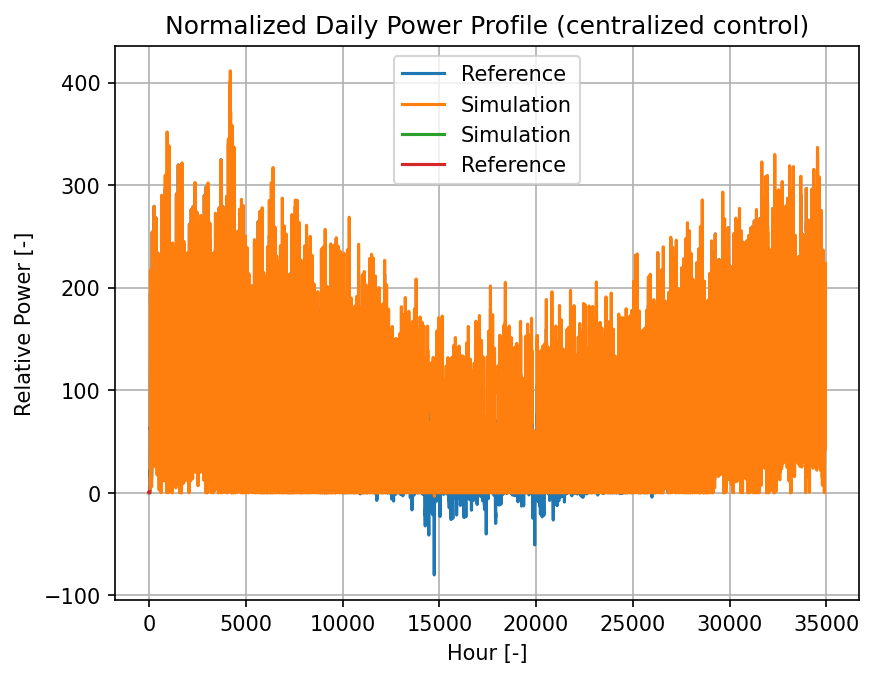
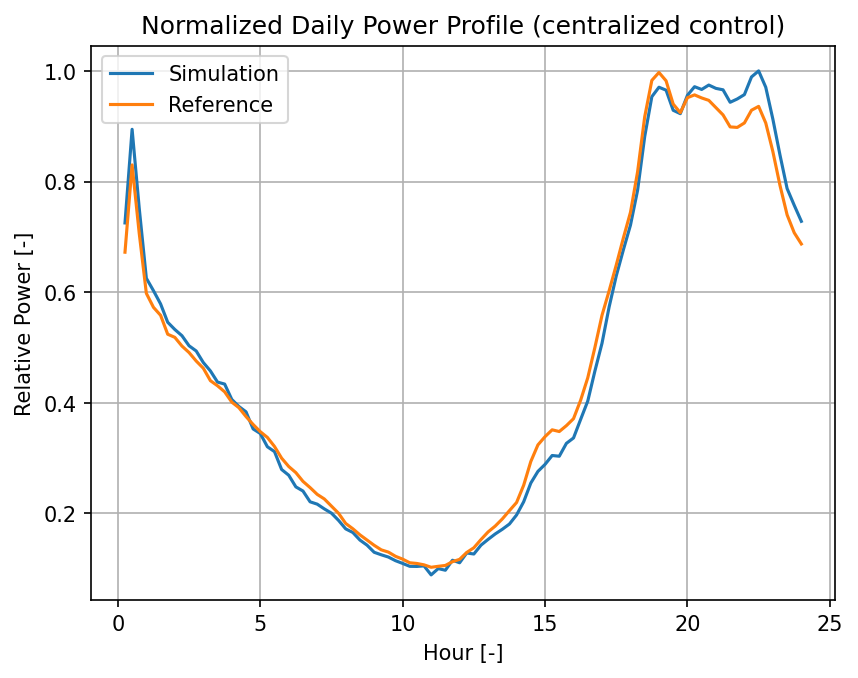
Run1. plus add pass in argument for centralized and decentralized

diff --git a/main.py b/main.py
@@ -1,4 +1,5 @@
 from typing import List
+import argparse
 import numpy as np
 import time
 
@@ -10,9 +11,7 @@ import constants
 
 TIME_STEP_SECONDS = constants.TIME_STEP_SECONDS
 
-# "decentralized" or "centralized"
-#CONTROL_MODE = "decentralized"  
-CONTROL_MODE = "centralized"  
+# Renewable share threshold set based on ____________
 HIGH_REN_THRESHOLD = 0.6
 LOW_REN_THRESHOLD = 0.4
 
@@ -97,10 +96,9 @@ def batt_strategy(time_step : int, temperature_data : np.ndarray, renewable_shar
     # Example: do nothing, determine the consumption of the battery in the house strategy
     # pass
 
-    # In centralized mode, default to 0; neighborhood_strategy will override.
-    # In decentralized mode, leave None so house_strategy sets it.
-    if CONTROL_MODE == "centralized":
-        batt.consumption[time_step] = 0.0
+    # Default to 0; neighborhood_strategy will override in centralized,
+    # house_strategy will override in decentralized.
+    batt.consumption[time_step] = 0.0
 
 def house_strategy(time_step : int, temperature_data : np.ndarray, renewable_share : np.ndarray, base_data : np.ndarray,
                    pv : PVInstallation, ev : EVInstallation, batt : Battery, hp : Heatpump):
@@ -114,12 +112,8 @@ def house_strategy(time_step : int, temperature_data : np.ndarray, renewable_sha
     - batt.consumption[time_step]
     """
 
-    # Centralized mode: neighborhood_strategy manages batteries
-    if CONTROL_MODE == "centralized":
-        return
-
-    # Decentralized mode: each house manages its own battery
-    # Example: only set batt.consumption[time_step]
+    ## YKA
+    ## Decentralized Strategy logic: Each house manages its own battery based on its own net load
     house_load = base_data[time_step] + pv.consumption[time_step] + ev.consumption[time_step] + hp.consumption[time_step]
     if house_load <= 0: # if the combined load is negative, charge the battery
         batt.consumption[time_step] = min(-house_load, batt.max)
@@ -137,11 +131,14 @@ def neighborhood_strategy(time_step, temperature_data : np.ndarray, renewable_sh
     - hp.consumption[time_step] for hp in hps
     - batt.consumption[time_step] for batt in batteries
     """
-    if CONTROL_MODE != "centralized":
-        return
+
+    ## YKA
+    ## Centralized Strategy logic: Batteries are chared based on neighborhood totals and 
+    ## are charged from the grid when the national renewable share is is high
 
     n = len(batteries)
-    # Total neighborhood net load excluding batteries (already set to 0 by batt_strategy)
+    
+    # Total neighborhood net load excluding batteries 
     total_net_load = sum(
         baseloads[i][time_step] + pvs[i].consumption[time_step] + evs[i].consumption[time_step] + hps[i].consumption[time_step]
         for i in range(n)
@@ -149,8 +146,11 @@ def neighborhood_strategy(time_step, temperature_data : np.ndarray, renewable_sh
 
     ren = renewable_share[time_step]
 
+
+    # When there is no local generation, charge batteries if there is
+    # a high renewable share on the national grid 
     if total_net_load < 0:
-        # Local PV surplus: charge batteries greedily
+        # Local PV surplus: charge batteries
         target = -total_net_load
         for batt in batteries:
             charge = min(target, batt.max)
@@ -159,11 +159,11 @@ def neighborhood_strategy(time_step, temperature_data : np.ndarray, renewable_sh
             if target <= 0:
                 break
     elif ren >= HIGH_REN_THRESHOLD:
-        # High renewable share on grid: charge all batteries from grid
+        # High renewable share on grid: charge batteries from grid
         for batt in batteries:
             batt.consumption[time_step] = batt.max
     elif ren <= LOW_REN_THRESHOLD:
-        # Low renewable share: discharge batteries to reduce dirty import
+        # Low renewable share: discharge batteries to reduce import
         target = total_net_load
         for batt in batteries:
             discharge = min(target, -batt.min)  # batt.min is negative
@@ -177,13 +177,20 @@ def main():
     """
     Run this function to start a simulation
     """
+    parser = argparse.ArgumentParser()
+    parser.add_argument("control_strategy", choices=["centralized", "decentralized"])
+    args = parser.parse_args()
+    control_strategy = args.control_strategy
 
     # Set up simulation
     number_of_houses = 100  # <= 100
     amount_of_days_to_simulate = 364  # <= 364
     sim_length = amount_of_days_to_simulate * constants.AMOUNT_OF_TIME_STEPS_IN_DAY
 
-    strategy_order = [StrategyOrder.INDIVIDUAL, StrategyOrder.HOUSEHOLD, StrategyOrder.NEIGHBORHOOD]
+    if control_strategy == "centralized":
+        strategy_order = [StrategyOrder.INDIVIDUAL, StrategyOrder.NEIGHBORHOOD]
+    else:
+        strategy_order = [StrategyOrder.INDIVIDUAL, StrategyOrder.HOUSEHOLD]
 
     simulator = Simulator(control_order=strategy_order,
                           battery_strategy=batt_strategy, 
@@ -202,7 +209,7 @@ def main():
     print(f'Duration: {time.time() - start_time} seconds')
     
     # Show Results
-    vizualizer = Vizualizer(sim_length, CONTROL_MODE)
+    vizualizer = Vizualizer(sim_length, control_strategy)
     vizualizer.plot_results_reference_and_total_load(simulator.reference_load, simulator.total_load)
     vizualizer.print_metrics_renewable_share_total_load(simulator.ren_share, simulator.total_load)
 
@@ -216,7 +223,7 @@ def main():
     local_pv_used = np.maximum(0.0, pv_generated - grid_export)
     total_cons = local_pv_used + grid_import
     ren_consumed = local_pv_used + ren_s * grid_import
-    print(f"\nMETRICS ({CONTROL_MODE.upper()} CONTROL):")
+    print(f"\nMETRICS ({control_strategy.upper()} CONTROL):")
     print(f"  Renewable share of consumption: {np.sum(ren_consumed) / np.sum(total_cons) * 100:.2f}%")
     print(f"  Local PV absorption:            {np.sum(local_pv_used) / np.sum(pv_generated) * 100:.2f}%")
     print(f"  Grid import share:              {np.sum(grid_import) / np.sum(total_cons) * 100:.2f}%")

diff --git a/Vizualizer.py b/Vizualizer.py
@@ -5,7 +5,7 @@ import constants
 
 class Vizualizer:
 
-    def __init__(self, sim_length, mode="decentralized") -> None:
+    def __init__(self, sim_length, mode) -> None:
         self.sim_length = sim_length
         self.mode = mode
 
@@ -29,6 +29,8 @@ class Vizualizer:
         plt.grid(True)
         plt.savefig(f"figures/{self.mode}_total_load.png", dpi=150, bbox_inches="tight")
         plt.show()
+        plt.close()
+
 
         # Calculate average daily profile
         amount_of_time_steps_in_day = constants.AMOUNT_OF_TIME_STEPS_IN_DAY
@@ -52,6 +54,7 @@ class Vizualizer:
         plt.grid(True)
         plt.savefig(f"figures/{self.mode}_daily_profile.png", dpi=150, bbox_inches="tight")
         plt.show()
+        plt.close()
 
     def print_metrics_renewable_share_total_load(self, renewable_share : np.ndarray, total_load : np.ndarray):
         """
